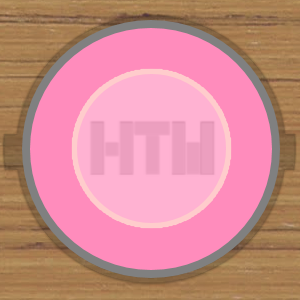
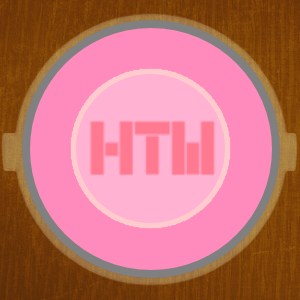
[#] Aenderungen an der GUI
[+] New Background

diff --git a/src/GUI/GUI.java b/src/GUI/GUI.java
@@ -1,3 +1,7 @@
+/**
+ * Created by cpatzek & soezdemir 17/05/2017.
+ */
+
 package GUI;
 
 import javafx.application.Application;
@@ -152,9 +156,9 @@ public class GUI extends Application
         scene.lookup(HAUPTPANE).setStyle(SIEGSPIELER+StartController.getNOREPEAT()+StartController.getBACKGROUNDIMAGEPOSITION()
                 +BACKGROUNDDIMENSION);
         scene.lookup(START).setLayoutX((214/DISPLAYBREITE)*BACKGROUNDBREITE);
-        scene.lookup(START).setLayoutY((548/DISPLAYHOEHE)*BACKGROUNDHOEHE);
-        scene.lookup(QUIT).setLayoutX((744/DISPLAYBREITE)*BACKGROUNDBREITE);
-        scene.lookup(QUIT).setLayoutY((548/DISPLAYHOEHE)*BACKGROUNDHOEHE);
+        scene.lookup(START).setLayoutY((348/DISPLAYHOEHE)*BACKGROUNDHOEHE);
+        scene.lookup(QUIT).setLayoutX((684/DISPLAYBREITE)*BACKGROUNDBREITE);
+        scene.lookup(QUIT).setLayoutY((348/DISPLAYHOEHE)*BACKGROUNDHOEHE);
     }
     @Override public void stop()
     {

diff --git a/src/MasterMind/FigurenFeld.java b/src/MasterMind/FigurenFeld.java
@@ -1,8 +1,10 @@
+/**
+ * Created by cpatzek & soezdemir 17/05/2017.
+ */
+
+
 package MasterMind;
 
-/**
- * Created by cpatzek & soezdemir  17/05/2017.
- */
 //Feld das alle Spielfiguren und Ihre Farben haelt zur Auswahl in der GUI
 public class FigurenFeld extends Spielfeld
 {

diff --git a/src/MasterMind/FarbVektor.java b/src/MasterMind/FarbVektor.java
@@ -1,9 +1,11 @@
+/**
+ * Created by cpatzek & soezdemir 17/05/2017.
+ */
+
+
 package MasterMind;
 import java.util.Vector;
 
-/**
- * Created by Noctis on 31.05.2017.
- */
 
 //Dies war eine Testklasse fuer die Pruefung des Tippfeldes. Deprecated
 public class FarbVektor

diff --git a/src/MasterMind/Spielbrett.java b/src/MasterMind/Spielbrett.java
@@ -1,5 +1,5 @@
 /**
- * Created by Christian Patzek & Sadri Oezdemir on 17/05/2017.
+ * Created by cpatzek & soezdemir 17/05/2017.
  */
 package MasterMind;
 //Das Spielbrett enthaelt alle moeglichen Spielfelder. Es verwaltet diese und kann sie ueberpreufen

diff --git a/src/MasterMind/MasterMindRegeln.java b/src/MasterMind/MasterMindRegeln.java
@@ -1,8 +1,11 @@
+/**
+ * Created by cpatzek & soezdemir 17/05/2017.
+ */
+
+
 package MasterMind;
 
-/**
- * Created by Noctis on 24.05.2017.
- */
+
 //wird noch nicht benoetigt. Vlt in Zukunft zum Auslagern von Code
 public class MasterMindRegeln
 {

diff --git a/src/MasterMind/Spielfeld.java b/src/MasterMind/Spielfeld.java
@@ -1,5 +1,5 @@
 /**
- * Created by Christian Patzek & Sadri Oezdemir on 17/05/2017.
+ * Created by cpatzek & soezdemir 17/05/2017.
  */
 package MasterMind;
 /*

diff --git a/src/GUI/StartController.java b/src/GUI/StartController.java
@@ -1,6 +1,7 @@
 /**
- * Created by Noctis on 20.06.2017.
+ * Created by cpatzek & soezdemir 17/05/2017.
  */
+
 package GUI;
 
 import MasterMind.*;

diff --git a/src/MasterMind/MasterMind.java b/src/MasterMind/MasterMind.java
@@ -1,6 +1,8 @@
 /**
- * Created by Noctis on 24.05.2017.
+ * Created by cpatzek & soezdemir 17/05/2017.
  */
+
+
 package MasterMind;
 
 

diff --git a/src/MasterMind/MasterMindFeld.java b/src/MasterMind/MasterMindFeld.java
@@ -1,3 +1,8 @@
+/**
+ * Created by cpatzek & soezdemir 17/05/2017.
+ */
+
+
 package MasterMind;
 import java.util.Random;
 
